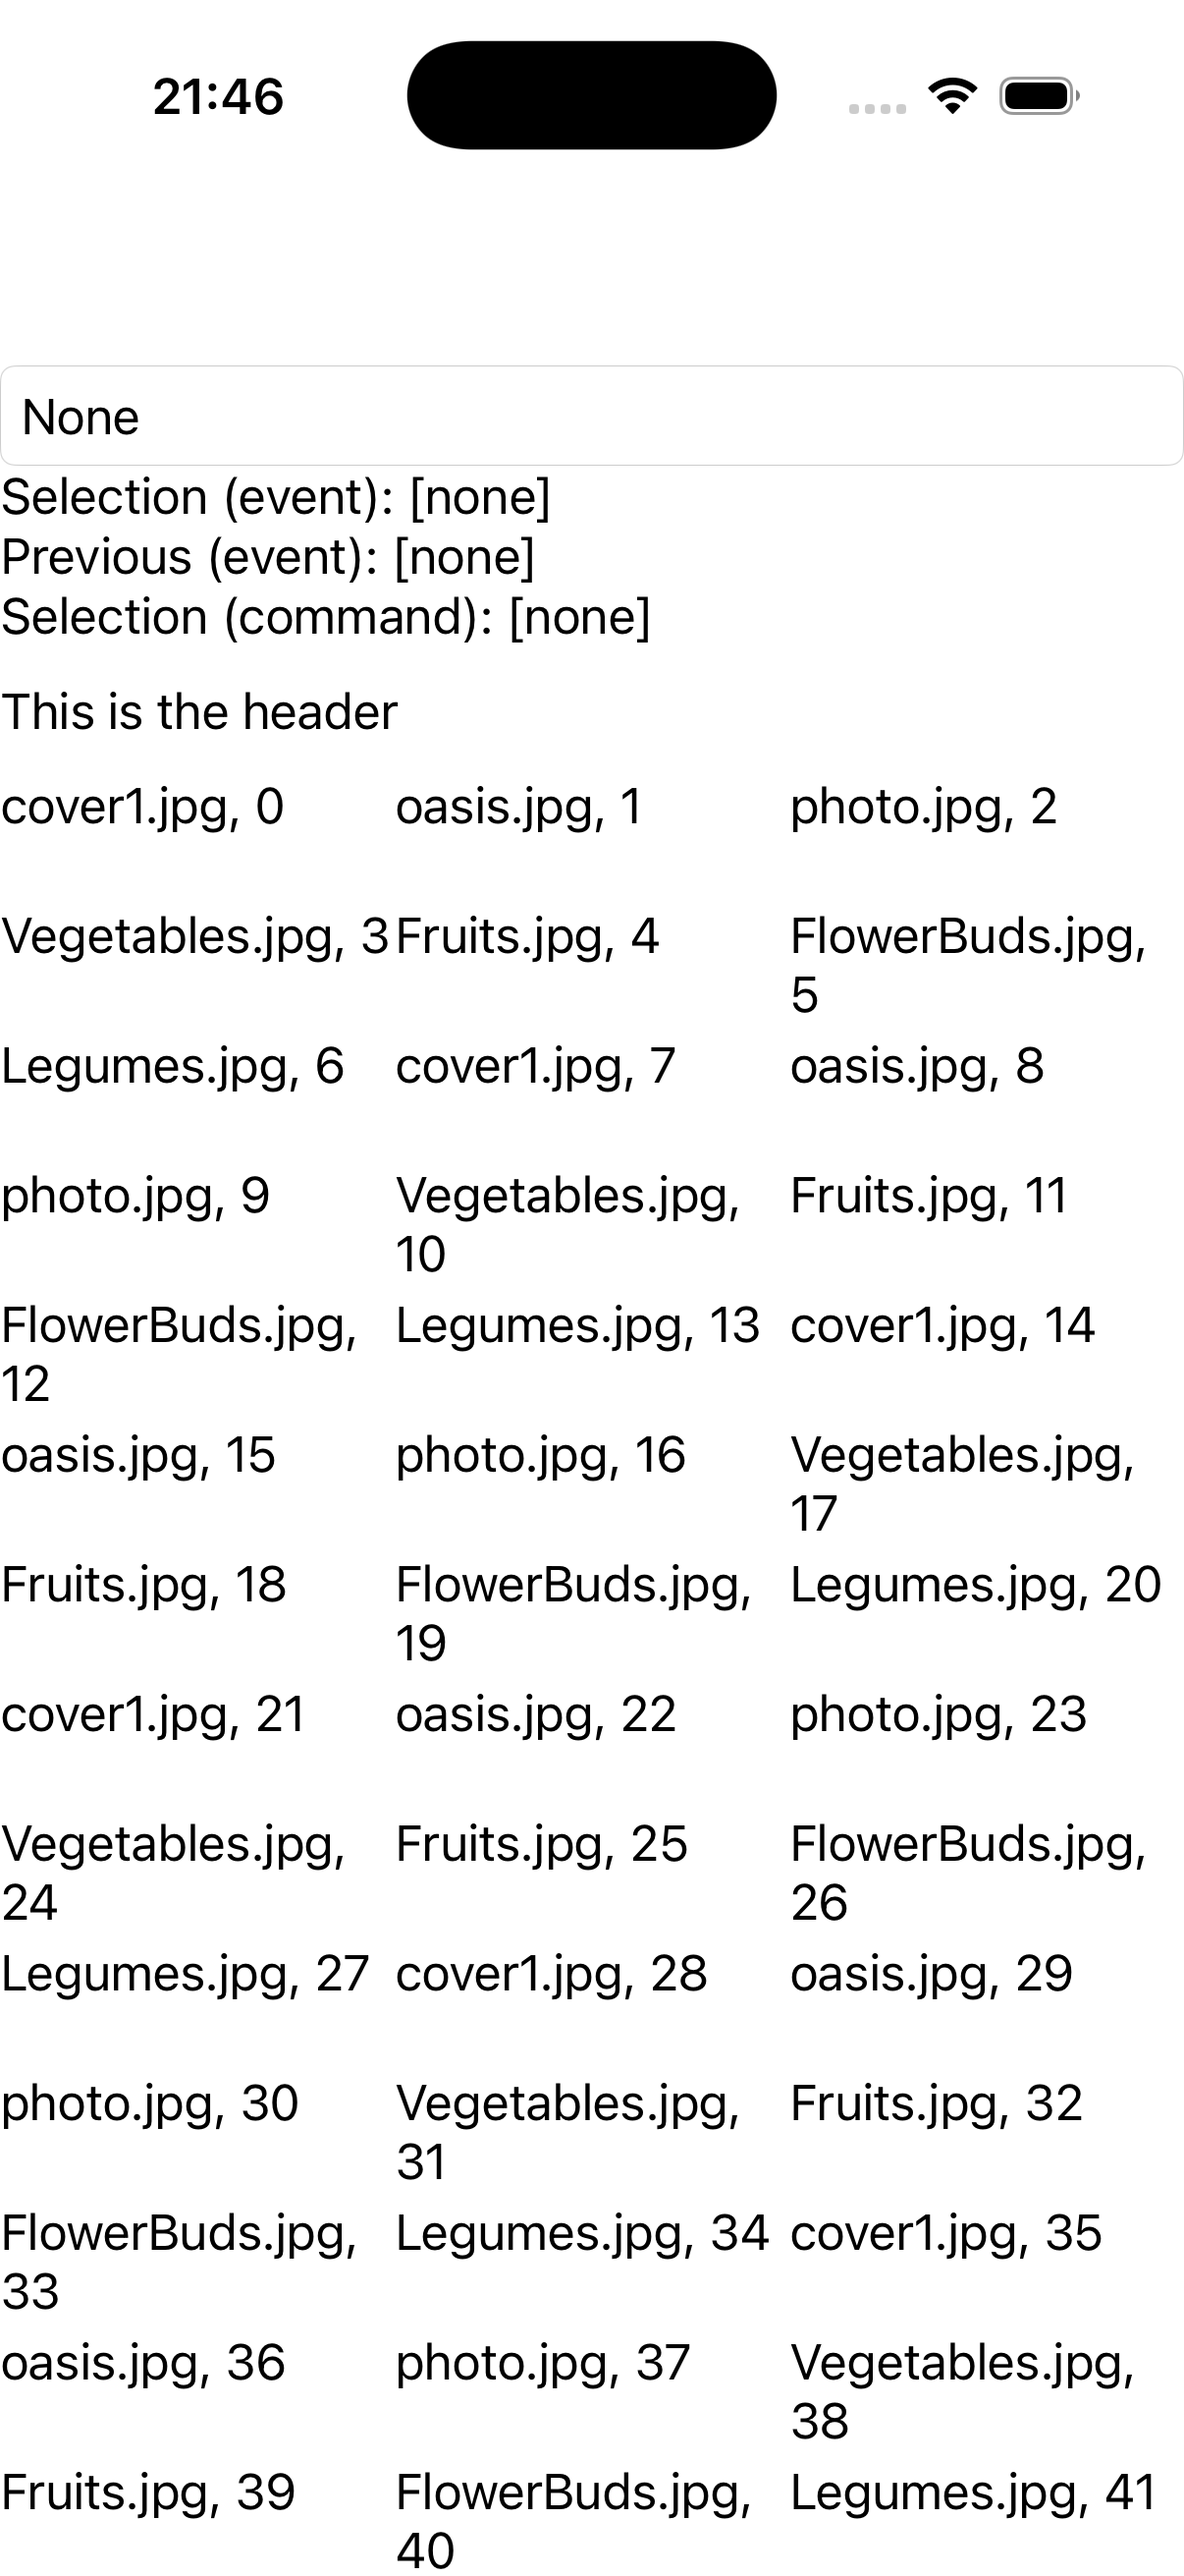
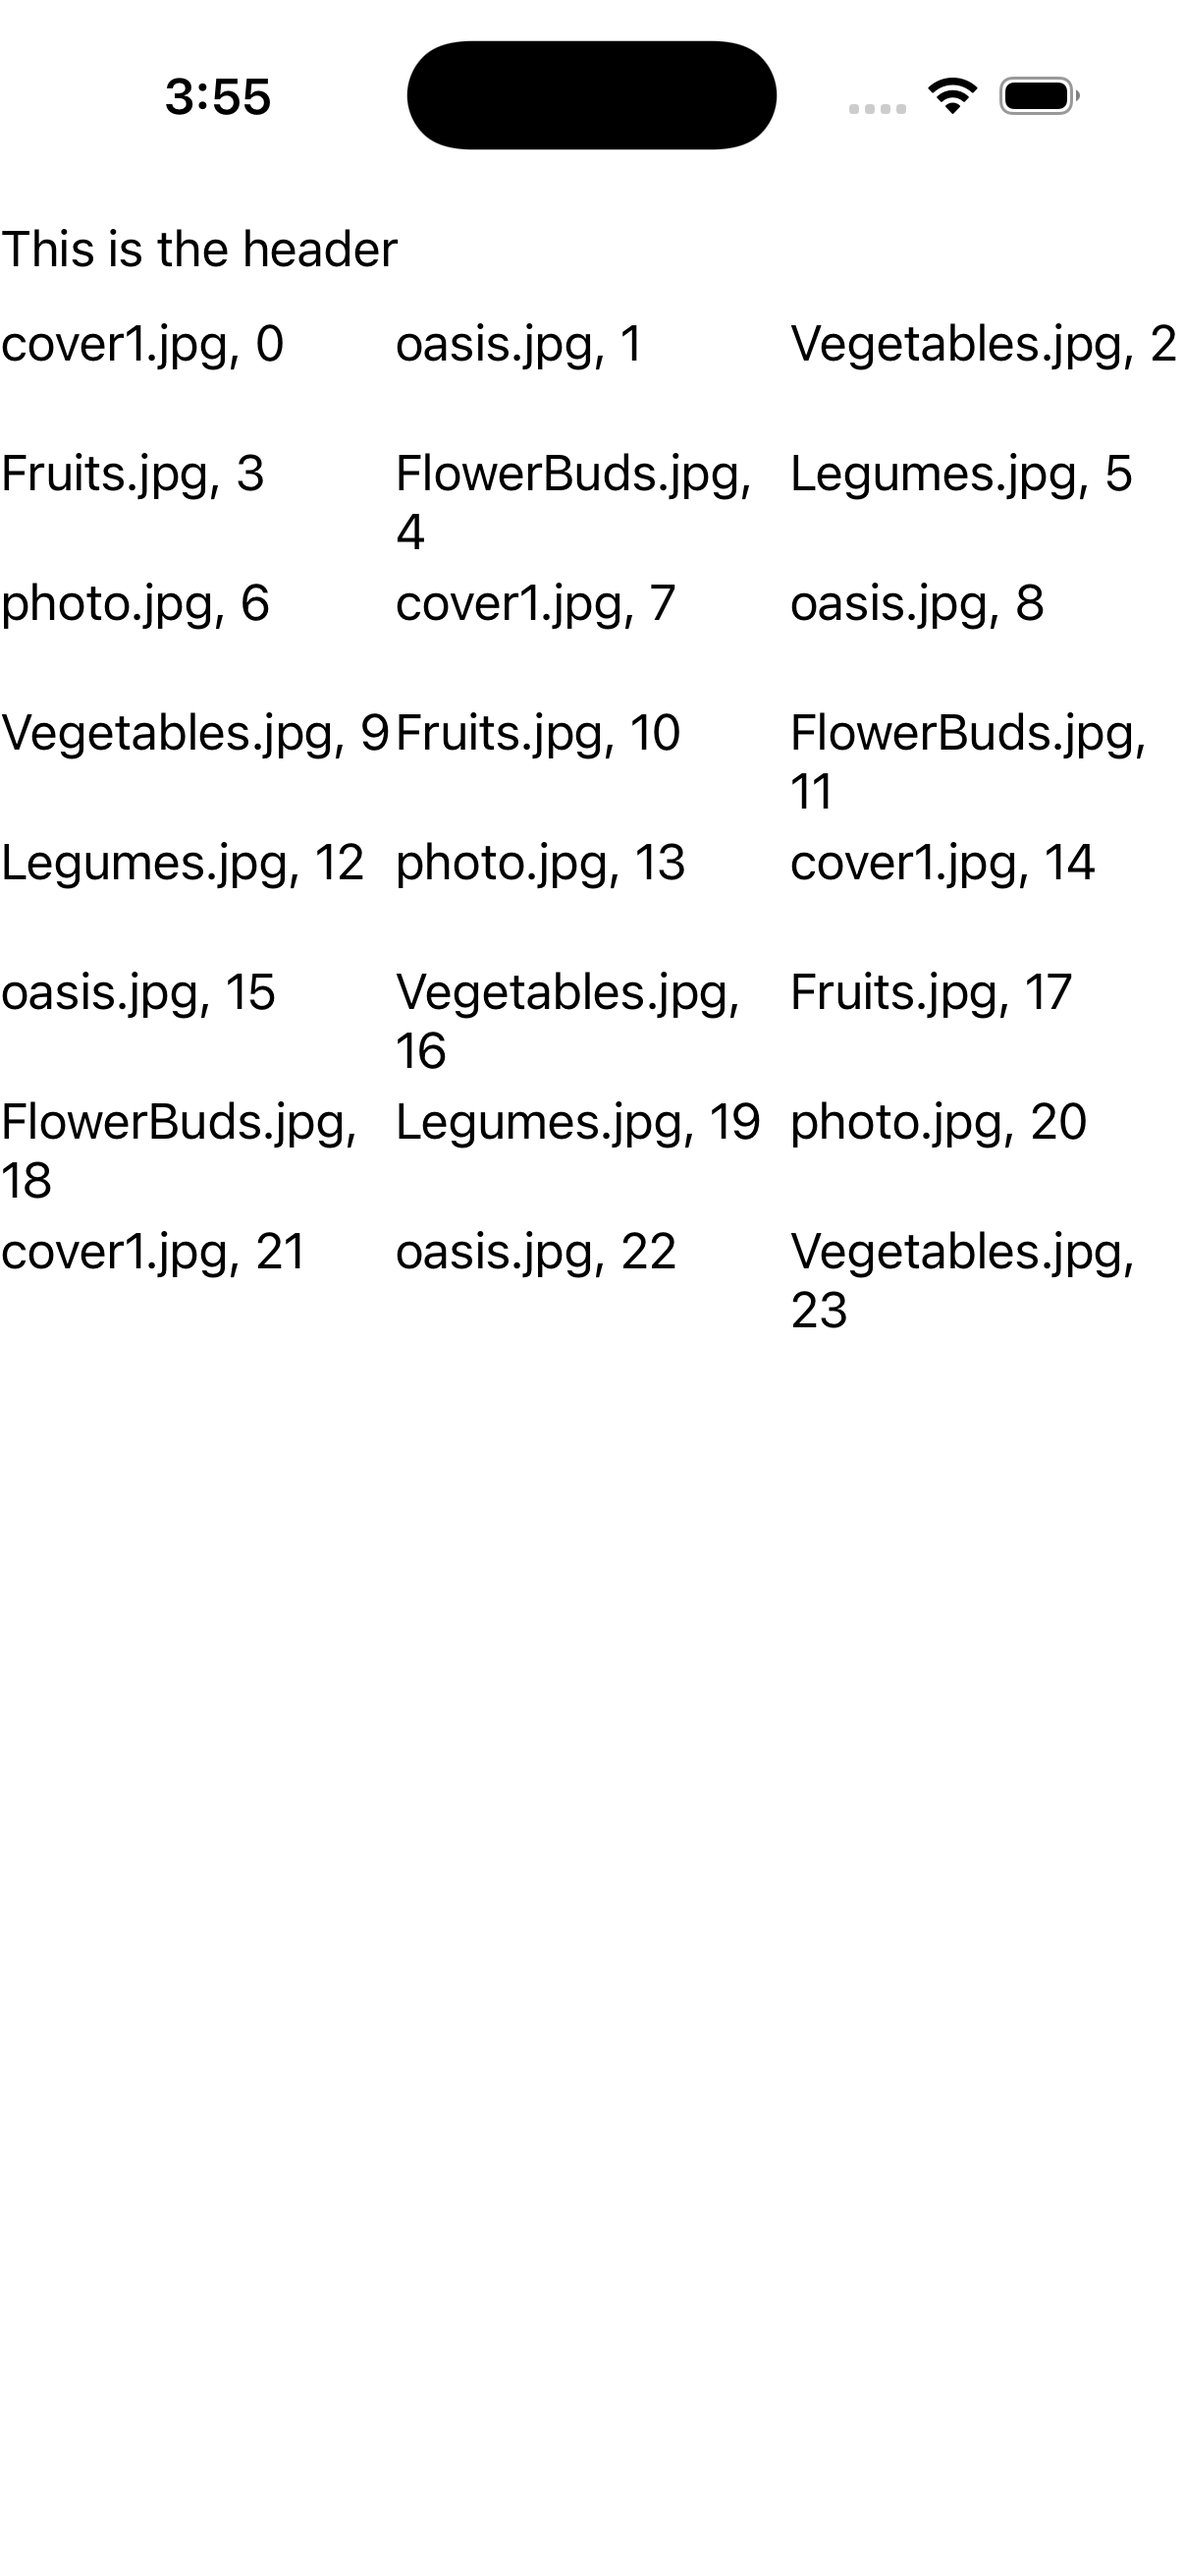
feat(samples): collectionview demo matches maui-compare CollectionViewPage()
Authored the missing collectionview gallery page reproducing
ComparePages.CollectionViewPage() 1:1 (the 'collectionview' key fell back
to value-controls): a CollectionView over 24 captioned items, a string
Header 'This is the header', SelectionMode.Single, GridItemsLayout(3,
Vertical), and a DataTemplate Label (Margin 6) bound to each caption.
Registered in gallery_host; iOS + macOS galleries compile clean. Verified
on-sim both themes: renders the same 3-col grid + header + 24 items as C#
(validates the collection_view grid/header/template/binding path on iOS).

diff --git a/port/cpp/src/samples/pages/collectionview_page.hpp b/port/cpp/src/samples/pages/collectionview_page.hpp
@@ -1,0 +1,103 @@
+#pragma once
+// maui::samples::collectionview_page — a faithful reproduction of the maui-compare "collectionview" demo
+// (ComparePages.CollectionViewPage()), the shipped-.NET-MAUI reference for the visual-parity comparison: a
+// CollectionView over 24 captioned items, a string Header ("This is the header"), SelectionMode.Single, a
+// GridItemsLayout(3, Vertical) — a three-across grid — and a DataTemplate of a Label (Margin 6) bound to
+// each item's Caption. The captions cycle the seven image names ("cover1.jpg, 0", "oasis.jpg, 1", …).
+// Kept 1:1 with the C# reference.
+//
+// The C# items are an Item { Caption } list; the headless-safe port models each item as its caption string
+// directly (the {Binding Caption} collapses to a self-binding on the string), exactly as the adaptive /
+// items gallery pages do. The page OWNS its whole element tree (the items_page pattern).
+
+#include <array>
+#include <memory>
+#include <string>
+#include <vector>
+
+#include "maui/controls/content_page.hpp"
+#include "maui/controls/items/boxed_item.hpp"
+#include "maui/controls/items/collection_view.hpp"
+#include "maui/controls/items/grid_items_layout.hpp"
+#include "maui/controls/items/items_layout_orientation.hpp"
+#include "maui/controls/items/selection_mode.hpp"
+#include "maui/controls/label.hpp"
+#include "maui/controls/templates/data_template.hpp"
+#include "maui/controls/view.hpp" // margin_property
+#include "maui/core/observable_collection.hpp"
+#include "maui/core/thickness.hpp"
+#include "maui/hosting/maui_app.hpp"
+
+#include "gallery_attach.hpp"
+
+namespace maui::samples
+{
+    class collectionview_page
+    {
+        // The seven image names the C# captions cycle (CollectionViewPage()).
+        static std::vector<std::string> build_captions()
+        {
+            static const std::array<const char*, 7> names{"cover1.jpg", "oasis.jpg",      "Vegetables.jpg",
+                                                          "Fruits.jpg", "FlowerBuds.jpg", "Legumes.jpg",
+                                                          "photo.jpg"};
+            std::vector<std::string> captions;
+            captions.reserve(24);
+            for (int n = 0; n < 24; ++n)
+            {
+                captions.emplace_back(std::string(names.at(static_cast<std::size_t>(n) % names.size())) + ", " +
+                                      std::to_string(n));
+            }
+            return captions;
+        }
+
+    public:
+        collectionview_page()
+            : items_(std::make_shared<maui::core::observable_collection<std::string>>(build_captions()))
+        {
+            page_.set_title("CollectionView");
+
+            // DataTemplate: a Label (Margin 6) bound to the item's Caption (a self-binding on the string).
+            auto cell = maui::controls::data_template::of<maui::controls::label>();
+            cell->set_binding<std::string, std::string>(maui::controls::label::text_property(),
+                                                        [](const std::string& value) { return value; });
+            cell->set_value(maui::controls::margin_property(), maui::core::thickness(6));
+
+            list_.set_item_template(cell);
+            list_.set_items_source(items_);
+            list_.set_items_layout(std::make_shared<maui::controls::grid_items_layout>(
+                3, maui::controls::items_layout_orientation::vertical));
+            list_.set_header(maui::controls::boxed_item::of(std::string{"This is the header"}));
+            list_.set_selection_mode(maui::controls::selection_mode::single);
+
+            page_.set_content(list_);
+        }
+
+        [[nodiscard]] maui::controls::content_page& page()
+        {
+            return page_;
+        }
+
+        // Attach a handler to the collection_view and the page, then re-host the tree built in the ctor.
+        void attach_handlers(maui::hosting::maui_app& app)
+        {
+            gallery_attach_one(app, list_, "list_");
+            gallery_attach_one(app, page_, "page_");
+            gallery_rehost_content(page_); // the page hosts the collection_view
+        }
+
+        // The owned controls, exposed for tests / the hosting main's bottom-up attachment.
+        [[nodiscard]] maui::controls::collection_view& list()
+        {
+            return list_;
+        }
+        [[nodiscard]] const std::shared_ptr<maui::core::observable_collection<std::string>>& items() const
+        {
+            return items_;
+        }
+
+    private:
+        std::shared_ptr<maui::core::observable_collection<std::string>> items_; // publisher before the list (§8)
+        maui::controls::content_page page_;
+        maui::controls::collection_view list_;
+    };
+} // namespace maui::samples

diff --git a/port/cpp/src/samples/gallery_host.hpp b/port/cpp/src/samples/gallery_host.hpp
@@ -108,6 +108,8 @@
 #include "pages/controls_stack_page.hpp"
 // --- single centered Border (maui-compare BorderPage reproduction) ---
 #include "pages/border_page.hpp"
+// --- 3-col grid CollectionView (maui-compare CollectionViewPage reproduction) ---
+#include "pages/collectionview_page.hpp"
 // --- batch 11 (BorderGalleries) ---
 #include "pages/border_alignment_page.hpp"
 #include "pages/border_clip_playground_page.hpp"
@@ -330,6 +332,7 @@
     X("alignment", alignment_page)                                                                                     \
     X("controls_stack", controls_stack_page)                                                                           \
     X("border", border_page)                                                                                           \
+    X("collectionview", collectionview_page)                                                                           \
     X("border_alignment", border_alignment_page)                                                                       \
     X("border_clip_playground", border_clip_playground_page)                                                           \
     X("borderless", borderless_page)                                                                                   \

diff --git a/port/cpp/docs/comparison/README.md b/port/cpp/docs/comparison/README.md
@@ -2,7 +2,7 @@
 
 Theme-matched iOS comparison: each page rendered by **real .NET MAUI** vs the **C++ port**, on the same iPhone 17 simulator, compared **light-vs-light** and **dark-vs-dark**. Both stacks render native-default controls + the system font (the C# app's `dotnet new maui` default `Styles.xaml` + OpenSans are stripped; appearance forced via `MAUI_THEME` / `MAUI_APPEARANCE`). Goal: pixel-perfect parity, fixed example-by-example.
 
-**Progress: 0 / 172 🟢 matched** · 40 🟡 minor · 43 🔴 diff · 89 ⬜ pending
+**Progress: 0 / 172 🟢 matched** · 41 🟡 minor · 42 🔴 diff · 89 ⬜ pending
 
 Status legend: 🟢 pixel-match (both themes) · 🟡 minor diff · 🔴 notable diff to fix · ⬜ not yet reviewed. Per-theme verdicts in `parity_status.json`.
 
@@ -84,7 +84,7 @@ Rows are in **fix order** (top → bottom): foundational single controls first (
 | 70 | Clipping | 🔴<br>L:diff<br>D:diff | ![](csharp_ios_light/clipping.png) | ![](cpp_ios_light/clipping.png) | ![](csharp_ios_dark/clipping.png) | ![](cpp_ios_dark/clipping.png) |
 | 71 | Shadow Playground | ⬜<br>L:pending<br>D:pending | ![](csharp_ios_light/shadow_playground.png) | ![](cpp_ios_light/shadow_playground.png) | ![](csharp_ios_dark/shadow_playground.png) | ![](cpp_ios_dark/shadow_playground.png) |
 | 72 | Invalidate Shadow Host | ⬜<br>L:pending<br>D:pending | ![](csharp_ios_light/invalidate_shadow_host.png) | ![](cpp_ios_light/invalidate_shadow_host.png) | ![](csharp_ios_dark/invalidate_shadow_host.png) | ![](cpp_ios_dark/invalidate_shadow_host.png) |
-| 73 | CollectionView | 🔴<br>L:diff<br>D:diff | ![](csharp_ios_light/collectionview.png) | ![](cpp_ios_light/collectionview.png) | ![](csharp_ios_dark/collectionview.png) | ![](cpp_ios_dark/collectionview.png) |
+| 73 | CollectionView | 🟡<br>L:minor<br>D:minor | ![](csharp_ios_light/collectionview.png) | ![](cpp_ios_light/collectionview.png) | ![](csharp_ios_dark/collectionview.png) | ![](cpp_ios_dark/collectionview.png) |
 | 74 | Items | ⬜<br>L:pending<br>D:pending | ![](csharp_ios_light/items.png) | ![](cpp_ios_light/items.png) | ![](csharp_ios_dark/items.png) | ![](cpp_ios_dark/items.png) |
 | 75 | Single Bound Selection | 🔴<br>L:diff<br>D:blank | ![](csharp_ios_light/single_bound_selection.png) | ![](cpp_ios_light/single_bound_selection.png) | ![](csharp_ios_dark/single_bound_selection.png) | ![](cpp_ios_dark/single_bound_selection.png) |
 | 76 | Multiple Bound Selection | ⬜<br>L:pending<br>D:pending | ![](csharp_ios_light/multiple_bound_selection.png) | ![](cpp_ios_light/multiple_bound_selection.png) | ![](csharp_ios_dark/multiple_bound_selection.png) | ![](cpp_ios_dark/multiple_bound_selection.png) |
